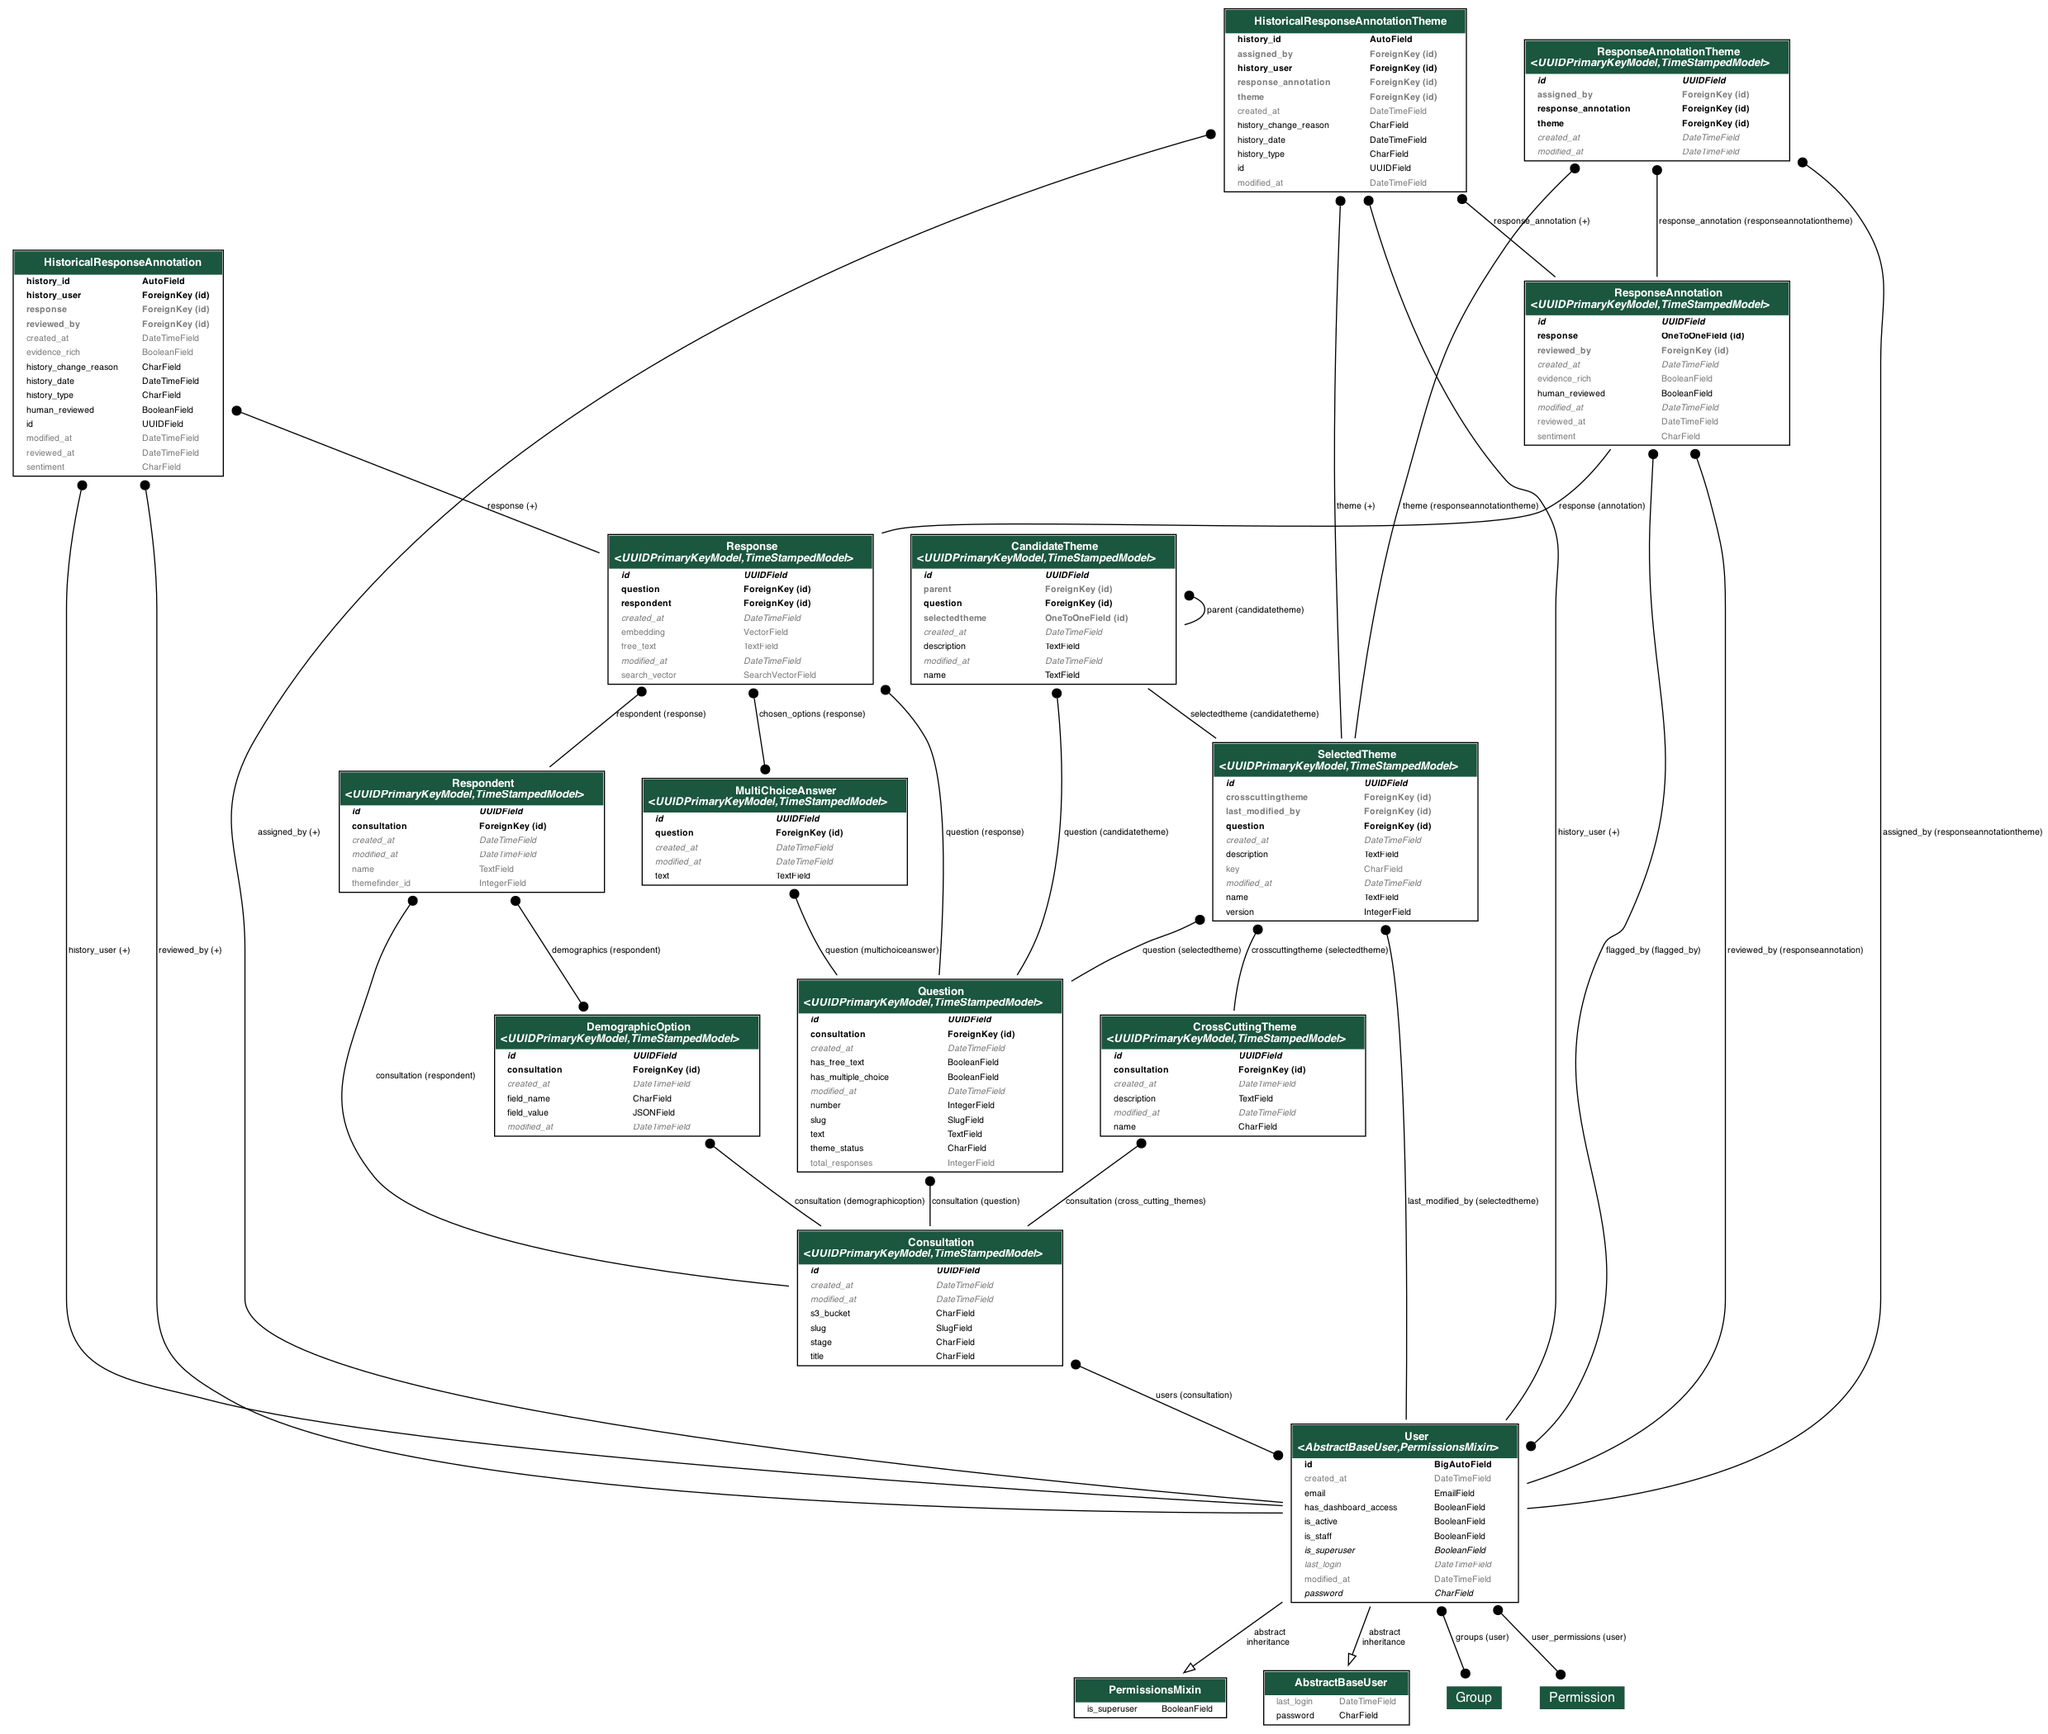
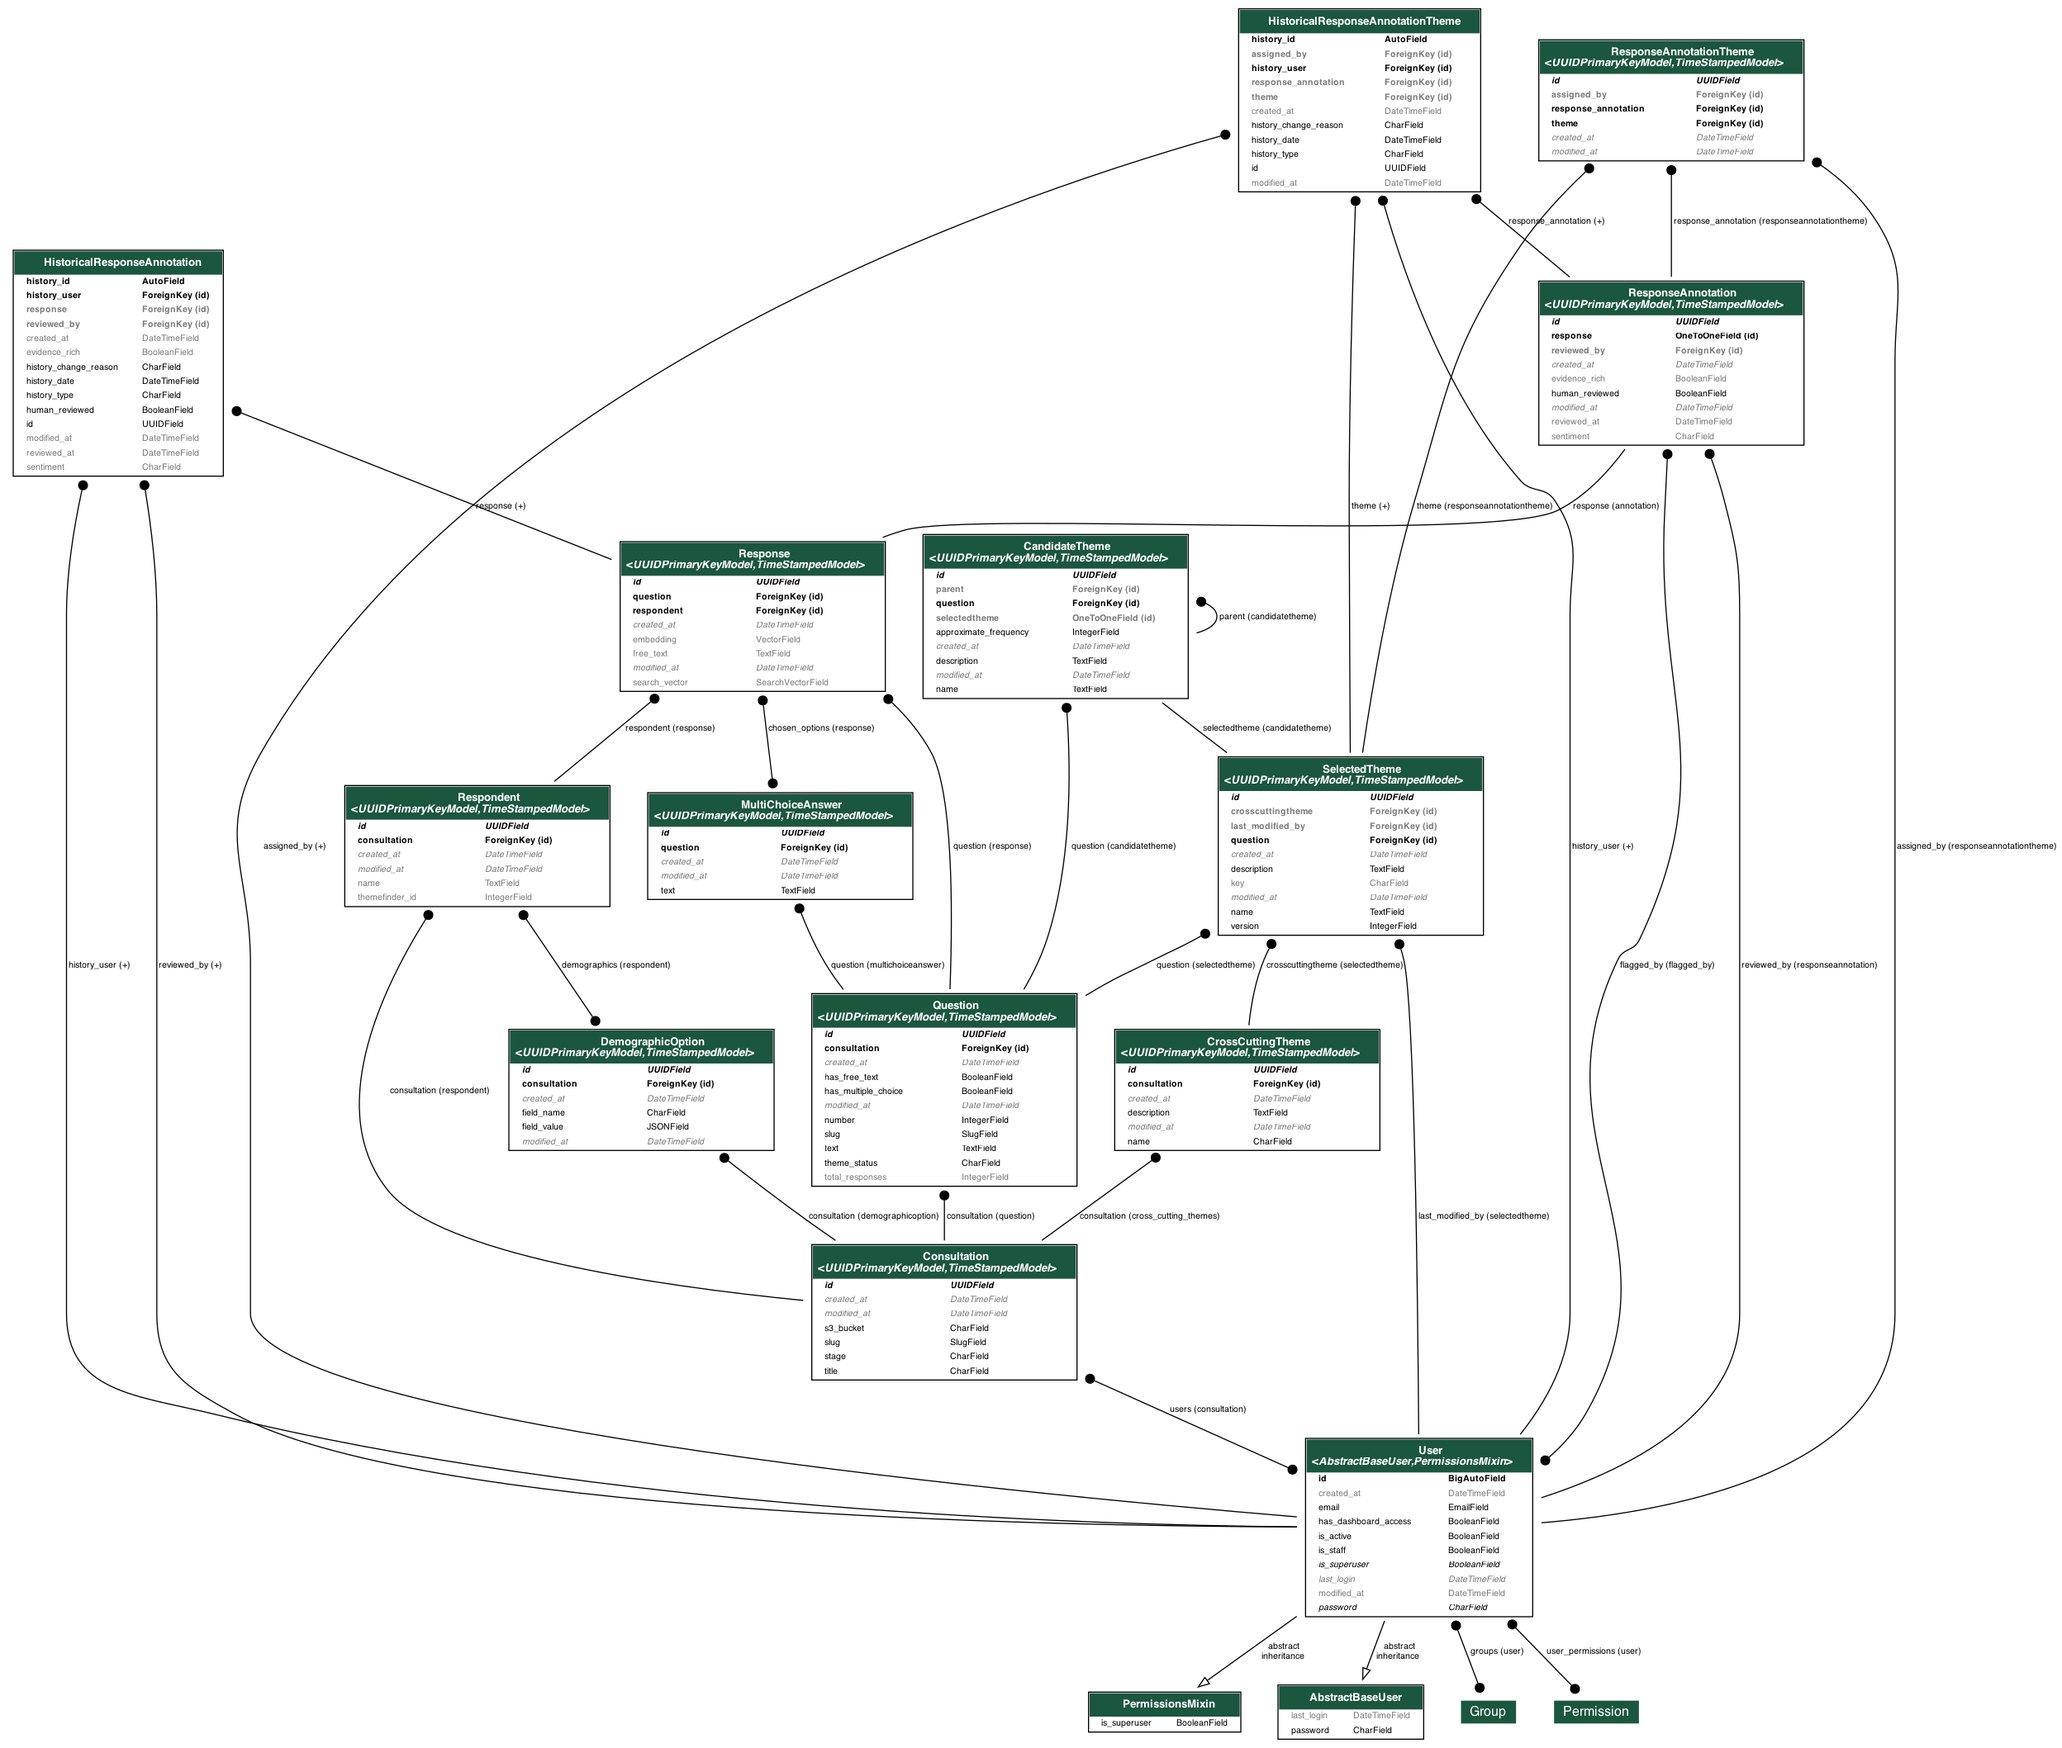
Add: missing approximate frequency field to candidate theme.

diff --git a/consultation_analyser/consultations/migrations/0082_candidatetheme_approximate_frequency.py b/consultation_analyser/consultations/migrations/0082_candidatetheme_approximate_frequency.py
@@ -1,0 +1,21 @@
+# Generated by Django 5.2.6 on 2025-10-15 12:36
+
+from django.db import migrations, models
+
+
+class Migration(migrations.Migration):
+
+    dependencies = [
+        (
+            "consultations",
+            "0081_rename_parent_selectedtheme_crosscuttingtheme_and_more",
+        ),
+    ]
+
+    operations = [
+        migrations.AddField(
+            model_name="candidatetheme",
+            name="approximate_frequency",
+            field=models.IntegerField(null=True),
+        ),
+    ]

diff --git a/consultation_analyser/consultations/models.py b/consultation_analyser/consultations/models.py
@@ -273,6 +273,7 @@ class CandidateTheme(UUIDPrimaryKeyModel, TimeStampedModel):
     question = models.ForeignKey(Question, on_delete=models.CASCADE)
     name = models.TextField()
     description = models.TextField()
+    approximate_frequency = models.IntegerField(null=True)
     parent = models.ForeignKey("self", on_delete=models.SET_NULL, null=True, blank=True)
     selectedtheme = models.OneToOneField(
         SelectedTheme, on_delete=models.SET_NULL, null=True, blank=True
